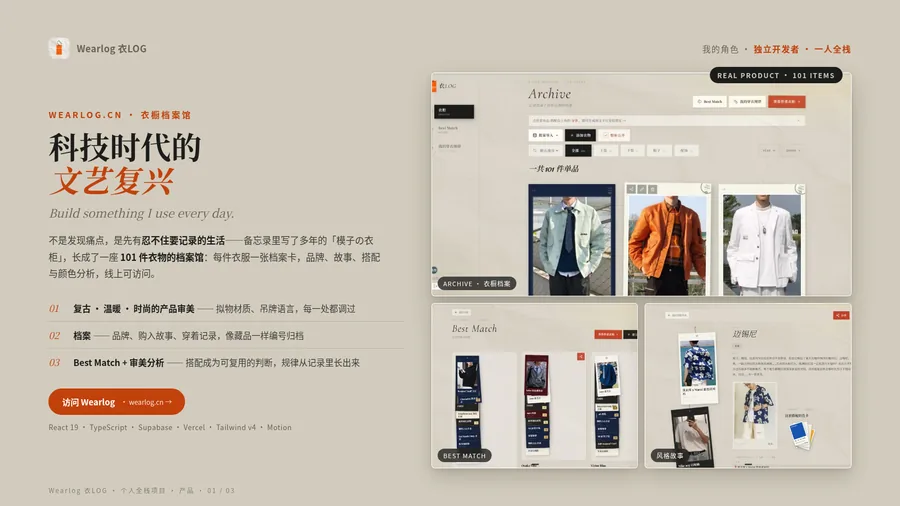
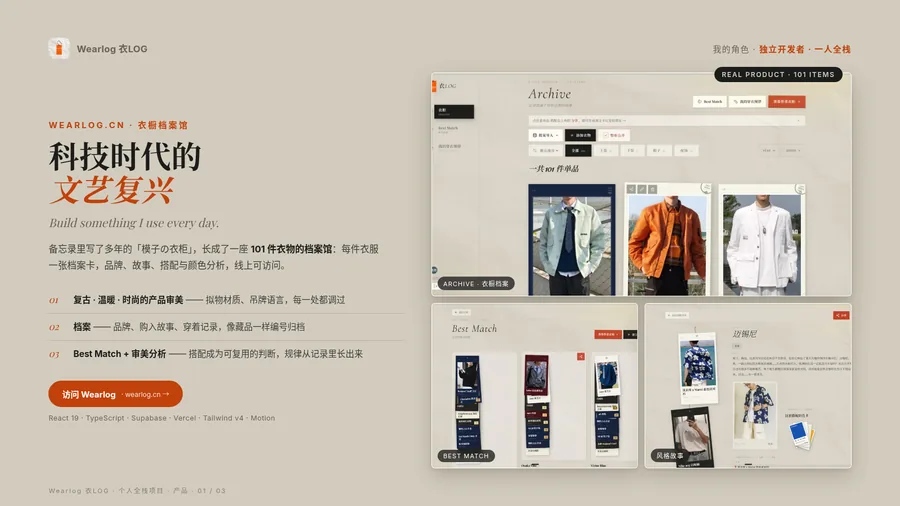
perf: preload all 24 pages and 79 images from cover; remove Wearlog not-A-but-B copy everywhere and regenerate previews; Android sensor rotation fallback

diff --git a/mobile.html b/mobile.html
@@ -83,6 +83,8 @@ button{font:inherit;border:none;background:none;color:inherit;touch-action:manip
   border:1.5px solid rgba(242,240,232,.7);color:#F2F0E8;font-size:14px;letter-spacing:.24em;
   background:rgba(14,35,80,.35);backdrop-filter:blur(4px);cursor:pointer;}
 .enter-btn:active{background:rgba(242,240,232,.18);}
+.preload-state{min-height:16px;margin-top:8px;font-size:10.5px;letter-spacing:.08em;color:rgba(242,240,232,.52);text-align:center;}
+.preload-state.ready{color:rgba(242,240,232,.78);}
 @keyframes ttspin{from{transform:rotate(0)}to{transform:rotate(360deg)}}
 @keyframes ttpulse{0%,100%{box-shadow:0 0 0 0 rgba(242,240,232,.28);}50%{box-shadow:0 0 22px 7px rgba(242,240,232,.4);}}
 @keyframes ttlure{0%,100%{filter:drop-shadow(0 0 0 rgba(242,240,232,0));}50%{filter:drop-shadow(0 0 9px rgba(242,240,232,.7));}}
@@ -239,7 +241,8 @@ button{font:inherit;border:none;background:none;color:inherit;touch-action:manip
   .cover-role{grid-column:1;grid-row:4;}
   .cover-credo{grid-column:1;grid-row:5;margin-top:8px;font-size:12px;}
   .enter-btn{grid-column:1;grid-row:6;margin-top:12px;justify-self:center;}
-  .tt-wrap{grid-column:2;grid-row:1 / 7;width:min(42vh,220px);margin:0 auto;}
+  .preload-state{grid-column:1;grid-row:7;margin-top:3px;}
+  .tt-wrap{grid-column:2;grid-row:1 / 8;width:min(42vh,220px);margin:0 auto;}
   .app-grid{grid-template-columns:repeat(8,1fr);gap:10px 4px;padding-top:14px;}
   .app-ico img{width:48px;height:48px;}
   .dock-wrap{padding-top:4px;}
@@ -264,7 +267,8 @@ html.is-phone-landscape .cover-name{grid-column:1;grid-row:3;font-size:17px;}
 html.is-phone-landscape .cover-role{grid-column:1;grid-row:4;}
 html.is-phone-landscape .cover-credo{grid-column:1;grid-row:5;margin-top:8px;font-size:12px;}
 html.is-phone-landscape .enter-btn{grid-column:1;grid-row:6;margin-top:12px;justify-self:center;}
-html.is-phone-landscape .tt-wrap{grid-column:2;grid-row:1 / 7;width:min(42vh,220px);margin:0 auto;}
+html.is-phone-landscape .preload-state{grid-column:1;grid-row:7;margin-top:3px;}
+html.is-phone-landscape .tt-wrap{grid-column:2;grid-row:1 / 8;width:min(42vh,220px);margin:0 auto;}
 html.is-phone-landscape .app-grid{grid-template-columns:repeat(8,1fr);gap:10px 4px;padding-top:14px;}
 html.is-phone-landscape .app-ico img{width:48px;height:48px;}
 html.is-phone-landscape .dock-wrap{padding-top:4px;}
@@ -310,6 +314,7 @@ html.is-phone-landscape .art-gallery{grid-template-columns:repeat(3,1fr);}
     </div>
     <div class="cover-credo">Think, Passion, Brave and Love.</div>
     <button id="enterBtn" class="enter-btn">进入</button>
+    <div id="preloadState" class="preload-state">正在准备作品…</div>
   </div>
   <audio id="bgm" src="assets/music/t21.m4a" loop preload="none"></audio>
 </div>
@@ -845,12 +850,52 @@ function openThemeSheet(){
   });
 }
 
-/* ═══════════════════════ 预热首屏（性能） ═══════════════════════ */
-function warmAll(){
-  const targets=['c1-a-product','c2-a-product','c3-a-product','work-elysium','p02-about','p25-letter'];
-  const run=()=>targets.forEach((s,i)=>setTimeout(()=>fetchArticle(s),i*150));
-  if('requestIdleCallback' in window)requestIdleCallback(run,{timeout:1200});else setTimeout(run,300);
+/* ═══════════════════════ 封面阶段全量预加载（HTML + 高清预览 + 正文图片） ═══════════════════════ */
+const PRELOAD_IMAGE_CACHE=new Map();
+let PRELOAD_ALL_PROMISE=null;
+function preloadImage(src,priority='low'){
+  if(!src)return Promise.resolve();
+  if(PRELOAD_IMAGE_CACHE.has(src))return PRELOAD_IMAGE_CACHE.get(src);
+  const job=new Promise(resolve=>{
+    const img=new Image();img.decoding='async';
+    try{img.fetchPriority=priority;}catch(e){}
+    const done=()=>{try{img.decode?.().catch(()=>{});}catch(e){}resolve();};
+    img.onload=done;img.onerror=resolve;img.src=src;
+  });
+  PRELOAD_IMAGE_CACHE.set(src,job);return job;
 }
+function warmAll(){
+  if(PRELOAD_ALL_PROMISE)return PRELOAD_ALL_PROMISE;
+  const state=document.getElementById('preloadState');
+  const critical=['c1-a-product','c2-a-product','c3-a-product','p02-about','p25-letter','work-elysium'];
+  const all=[...new Set([
+    'p02-about','p25-letter',
+    ...APPS.filter(a=>a.kind==='case').flatMap(a=>a.pages.map(p=>p[0])),
+    ...OTHERWORK.map(w=>w.slug)
+  ])];
+  const queue=[...critical,...all.filter(s=>!critical.includes(s))];
+  let done=0;
+  const update=()=>{if(state){state.textContent=`正在准备作品 ${done} / ${queue.length}`;state.classList.toggle('ready',done===queue.length);}};
+  update();
+  let cursor=0;
+  async function worker(){
+    while(cursor<queue.length){
+      const i=cursor++,slug=queue[i],priority=i<critical.length?'high':'low';
+      const data=await fetchArticle(slug);
+      const urls=[`assets/mobile-preview/${slug}.webp`,...data.images];
+      await Promise.all(urls.map(src=>preloadImage(src,priority)));
+      done++;update();
+    }
+  }
+  const staticAssets=['assets/wechat-qr.png','assets/p25-thanks-bg.webp',...Array.from({length:6},(_,i)=>`assets/wp/wp${i+1}.jpg`)];
+  staticAssets.forEach(src=>preloadImage(src,'low'));
+  PRELOAD_ALL_PROMISE=Promise.all(Array.from({length:4},worker)).then(()=>{
+    if(state){state.textContent='作品已准备好';state.classList.add('ready');}
+  });
+  return PRELOAD_ALL_PROMISE;
+}
+// 不等进入桌面：封面出现即开始并发预加载
+warmAll();
 </script>
 </body>
 </html>

diff --git a/pages/p18-why-wearlog.html b/pages/p18-why-wearlog.html
@@ -39,6 +39,6 @@ html,body{width:1600px;height:900px;overflow:hidden;background:var(--paper);colo
   <div class="y">wearlog.cn · 档案 / 搭配 / 穿衣规律 / 颜色分析</div>
   <p>私人习惯做成产品，审美不靠「让 AI 自由发挥」：拟物材质、吊牌语言、设计系统，一处一处调出来。</p></div>
 <div class="r"><div class="say">从一个真实习惯出发，<br>做一个自己会天天用的东西。</div>
-  <div class="d">这就是我做产品的起点：不是发现痛点，是先有忍不住要记录的生活。</div></div>
+  <div class="d">备忘录里多年的「模子の衣柜」，是 Wearlog 的起点。</div></div>
 <div class="foot">P.18</div>
 </body></html>

diff --git a/index.html b/index.html
@@ -915,6 +915,12 @@ function fitWall(){
   document.querySelectorAll('#wallpaper iframe').forEach(f=>{f.style.transform=`translate(-50%,-50%) scale(${s})`;});
 }
 window.addEventListener('resize',fitWall); fitWall();
+
+/* 封面阶段即预热全部案例，不再等进入桌面 */
+setTimeout(()=>{
+  warmPage('p02-about','high');warmPage('p25-letter','low');
+  CASES.forEach((c,i)=>setTimeout(()=>warmCase(c.id),i*100));
+},120);
 </script>
 </body>
 </html>

diff --git a/pages/c3-a.html b/pages/c3-a.html
@@ -72,7 +72,7 @@ h1 em{font-style:normal;color:#E0A85B;}
   </div>
   <div class="src">技术栈：React 19 · TS · Vite · Tailwind v4 · Supabase · Vercel</div>
 
-  <div class="foot">不是发现痛点 · 是忍不住要记录的生活</div>
+  <div class="foot">备忘录里的「模子の衣柜」 · Wearlog 的起点</div>
   <div class="foot2">Wearlog 衣LOG — 概览 · 01</div>
 </div>
 </body></html>
